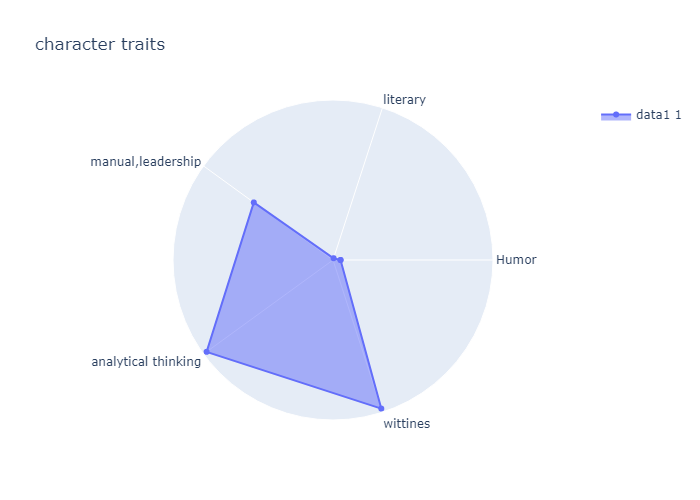
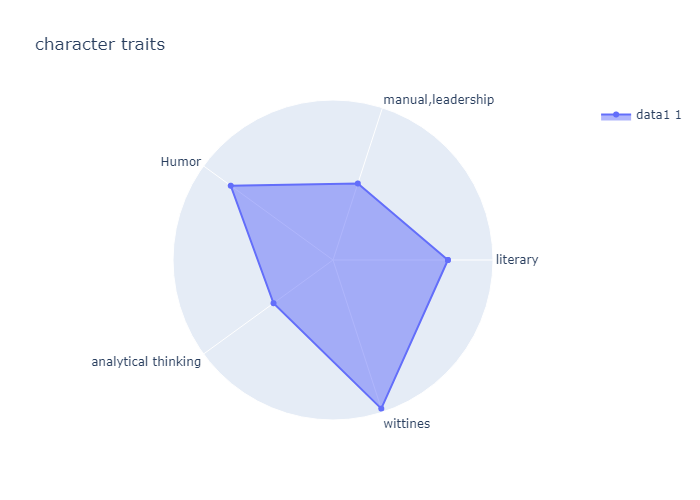
mhh

diff --git a/Adam/creation_giver_masse.py b/Adam/creation_giver_masse.py
@@ -60,19 +60,20 @@ def give_pdf(tab):
 
     fig = go.Figure(
         data=[
-            go.Scatterpolar(r=data1, theta=categories,
+            go.Scatterpolar(r=100, theta=categories,
                             fill='toself', name='data1 1'),
 
         ],
         layout=go.Layout(
             title=go.layout.Title(text='character traits'),
-            polar={'radialaxis': {'visible': False}},
+
+            polar={'radialaxis': {'visible': True, 'range': [0, 100]}},
             showlegend=True
         )
     )
 
     fig.write_image("graphe_giver_"+str(tab[1])+".png")
-    query = "UPDATE tab_donneur SET photo_profil = 'asset/images/graphe_picture/giver/graphe_giver_" + \
+    query = "UPDATE tab_donneur SET photo_araigne = 'asset/images/graphe_picture/giver/graphe_giver_" + \
         str(res[1])+".png WHERE id_donneur = " + str(res[1])+""
     execute_query_post(Connection, query)
     del_giver(tab[0])
@@ -81,7 +82,7 @@ def give_pdf(tab):
 Connectio = create_server_connection("localhost", "root", "")
 
 
-for i in range(0, 30):
+for i in range(0, 40):
 
     origin = ['France', 'Germany', 'Italy', 'Spain', 'United Kingdom', 'United States', 'Canada', 'Australia', 'New Zealand',
               'Japan', 'China', 'India', 'Brazil', 'Mexico', 'Argentina', 'South Africa', 'Nigeria', 'Egypt', 'Russia', 'Turkey']
@@ -100,14 +101,14 @@ for i in range(0, 30):
              'Rugby', 'Softball', 'Handball', 'Water polo', 'Boxing', 'Wrestling',
              'Judo', 'Taekwondo', 'Karate', 'Gymnastics', 'Diving', 'Swimming']
     text_of_thanks = 'I am very grateful for your help, I will never forget it i will always remember you my son is now your son, i gonna be grattful for youAnd i Hope you gonna be fine'
-    req = "INSERT INTO `tab_donneur`(`id_donneur`, `photo_profil`, `age`, `sexual_orientation`, `origine`, `height`, `color_eyes`, `hair_color`, `hairiness`, `sport_week`, `leadership`, `humor`, `manual`, `literary`, `analytical_thinking`, `wittiness`, `donor_word`, `center_interest_3`, `center_interest_1`, `center_interest_2`) VALUES (NULL,NULL,'"+str(
+    req = "INSERT INTO `tab_donneur`(`id_donneur`, `photo_profil`, `age`, `sexual_orientation`, `origine`, `height`, `color_eyes`, `hair_color`, `hairiness`, `sport_week`, `leadership`, `humor`, `manual`, `literary`, `analytical_thinking`, `wittiness`, `donor_word`, `center_interest_3`, `center_interest_1`, `center_interest_2`) VALUES (NULL,'asset/medias/"+str(i)+".jpg','"+str(
         random.randint(37, 54))+"','Hetero','"+str(origin[random.randint(0, len(origin)-1)])+"','"+str(random.randint(165, 189))+"','"+str(eyes_color[random.randint(0, len(eyes_color)-1)]) + "','Blond','"+str(different_value[random.randint(0, len(different_value)-1)])+"','"+str(random.randint(0, 6)) + "','"+str(random.randint(23, 100))+"','"+str(random.randint(23, 100))+"','"+str(random.randint(23, 100))+"','"+str(random.randint(23, 100))+"','"+str(random.randint(23, 100))+"','"+str(random.randint(23, 100))+"','"+text_of_thanks+"','"+sport[random.randint(0, len(sport)-1)]+"','"+sport[random.randint(0, len(sport)-1)]+"','"+sport[random.randint(0, len(sport)-1)]+"')"
     print(req)
     execute_query_post(Connectio, req)
     res = execute_query_get(
         Connectio, "SELECT id_donneur FROM `tab_donneur` WHERE 1 ORDER BY id_donneur DESC LIMIT 1")
     id_donneur = res[0][0]
-    res = query = "UPDATE tab_donneur SET photo_profil = 'asset/images/graphe_picture/giver/graphe_giver_" + \
+    res = query = "UPDATE tab_donneur SET photo_araigne = 'asset/images/graphe_picture/giver/graphe_giver_" + \
         str(id_donneur)+".png' WHERE id_donneur = " + str(id_donneur)+""
     print(res)
     execute_query_post(Connectio, query)

diff --git a/Adam/graphe_giver.py b/Adam/graphe_giver.py
@@ -49,11 +49,11 @@ def del_giver(id):
 
 def give_pdf(tab):
 
-    categories = ['Humor', 'literary', 'manual,leadership',
-                  'analytical thinking', 'wittines']
+    categories = ['literary', 'manual,leadership',
+                  'Humor', 'analytical thinking', 'wittines']
     categories = [*categories, categories[0]]
 
-    data1 = [tab[0], tab[1], tab[2], tab[3], tab[4]]
+    data1 = [tab[2], tab[3], tab[4], tab[5], tab[6]]
 
     data1 = [*data1, data1[0]]
 
@@ -70,9 +70,10 @@ def give_pdf(tab):
         )
     )
 
-    fig.write_image("graphe_giver_"+str(tab[1])+".png")
-    query = "UPDATE tab_donneur SET photo_profil = 'asset/images/graphe_picture/giver/graphe_giver_" + \
-        str(res[1])+".png WHERE id_donneur = " + str(res[1])+""
+    fig.write_image(
+        "asset/images/graphe_picture/giver/graphe_giver_"+str(tab[1])+".png")
+    query = "UPDATE tab_donneur SET photo_araigne = 'asset/images/graphe_picture/giver/graphe_giver_" + \
+        str(tab[1])+".png' WHERE id_donneur = " + str(tab[1])+""
     execute_query_post(Connection, query)
     del_giver(tab[0])
 

diff --git a/Adam/send.php b/Adam/send.php
@@ -1,0 +1,32 @@
+
+<?php include 'connexion_bd.php';
+include 'fonction2.php';
+
+?>
+
+<?php
+
+for ($i = 1; $i < 120; $i++) {
+    try {
+        $poo = $bdd->prepare("SELECT * FROM tab_donneur WHERE `id_donneur` = " . $i);
+        var_dump($poo);
+        $poo->execute();
+
+        $result = $poo->fetchAll();
+        var_dump($result);
+        $leadership = $result[0]['leadership'];
+        $manual = $result[0]['manual'];
+        $literary = $result[0]['literary'];
+        $analytical_thinking = $result[0]['analytical_thinking'];
+        $wittiness = $result[0]['wittiness'];
+
+        $poo = $bdd->prepare("INSERT INTO tab_graphe_giver (`id`, `id_giver`, `leadership`, `manual`, `literary`, `analytical_thinking`, `wittiness`) VALUES (NULL," . $result[0]['id_donneur'] . "," . $leadership . "," . $manual . "," . $literary . "," . $analytical_thinking . "," . $wittiness . ")");
+        var_dump($poo);
+        $poo->execute();
+    } catch (Exception $e) {
+        echo $e;
+    }
+}
+
+
+?>

diff --git a/Adam/graphe_receiver.py b/Adam/graphe_receiver.py
@@ -72,7 +72,7 @@ def give_pdf(tab):
     print("Schèma créee")
     fig.write_image(
         "asset/images/graphe_picture/receiver/graphe_receiver_"+str(tab[1])+".png")
-    query = "UPDATE tab_receveur SET photo_profil = 'asset/images/graphe_picture/receiver/graphe_receiver_" + \
+    query = "UPDATE tab_receveur SET photo_araigne = 'asset/images/graphe_picture/receiver/graphe_receiver_" + \
         str(res[1])+".png WHERE id_receveur = " + str(res[1])+""
     execute_query_post(Connection, query)
     del_receiver(tab[0])
